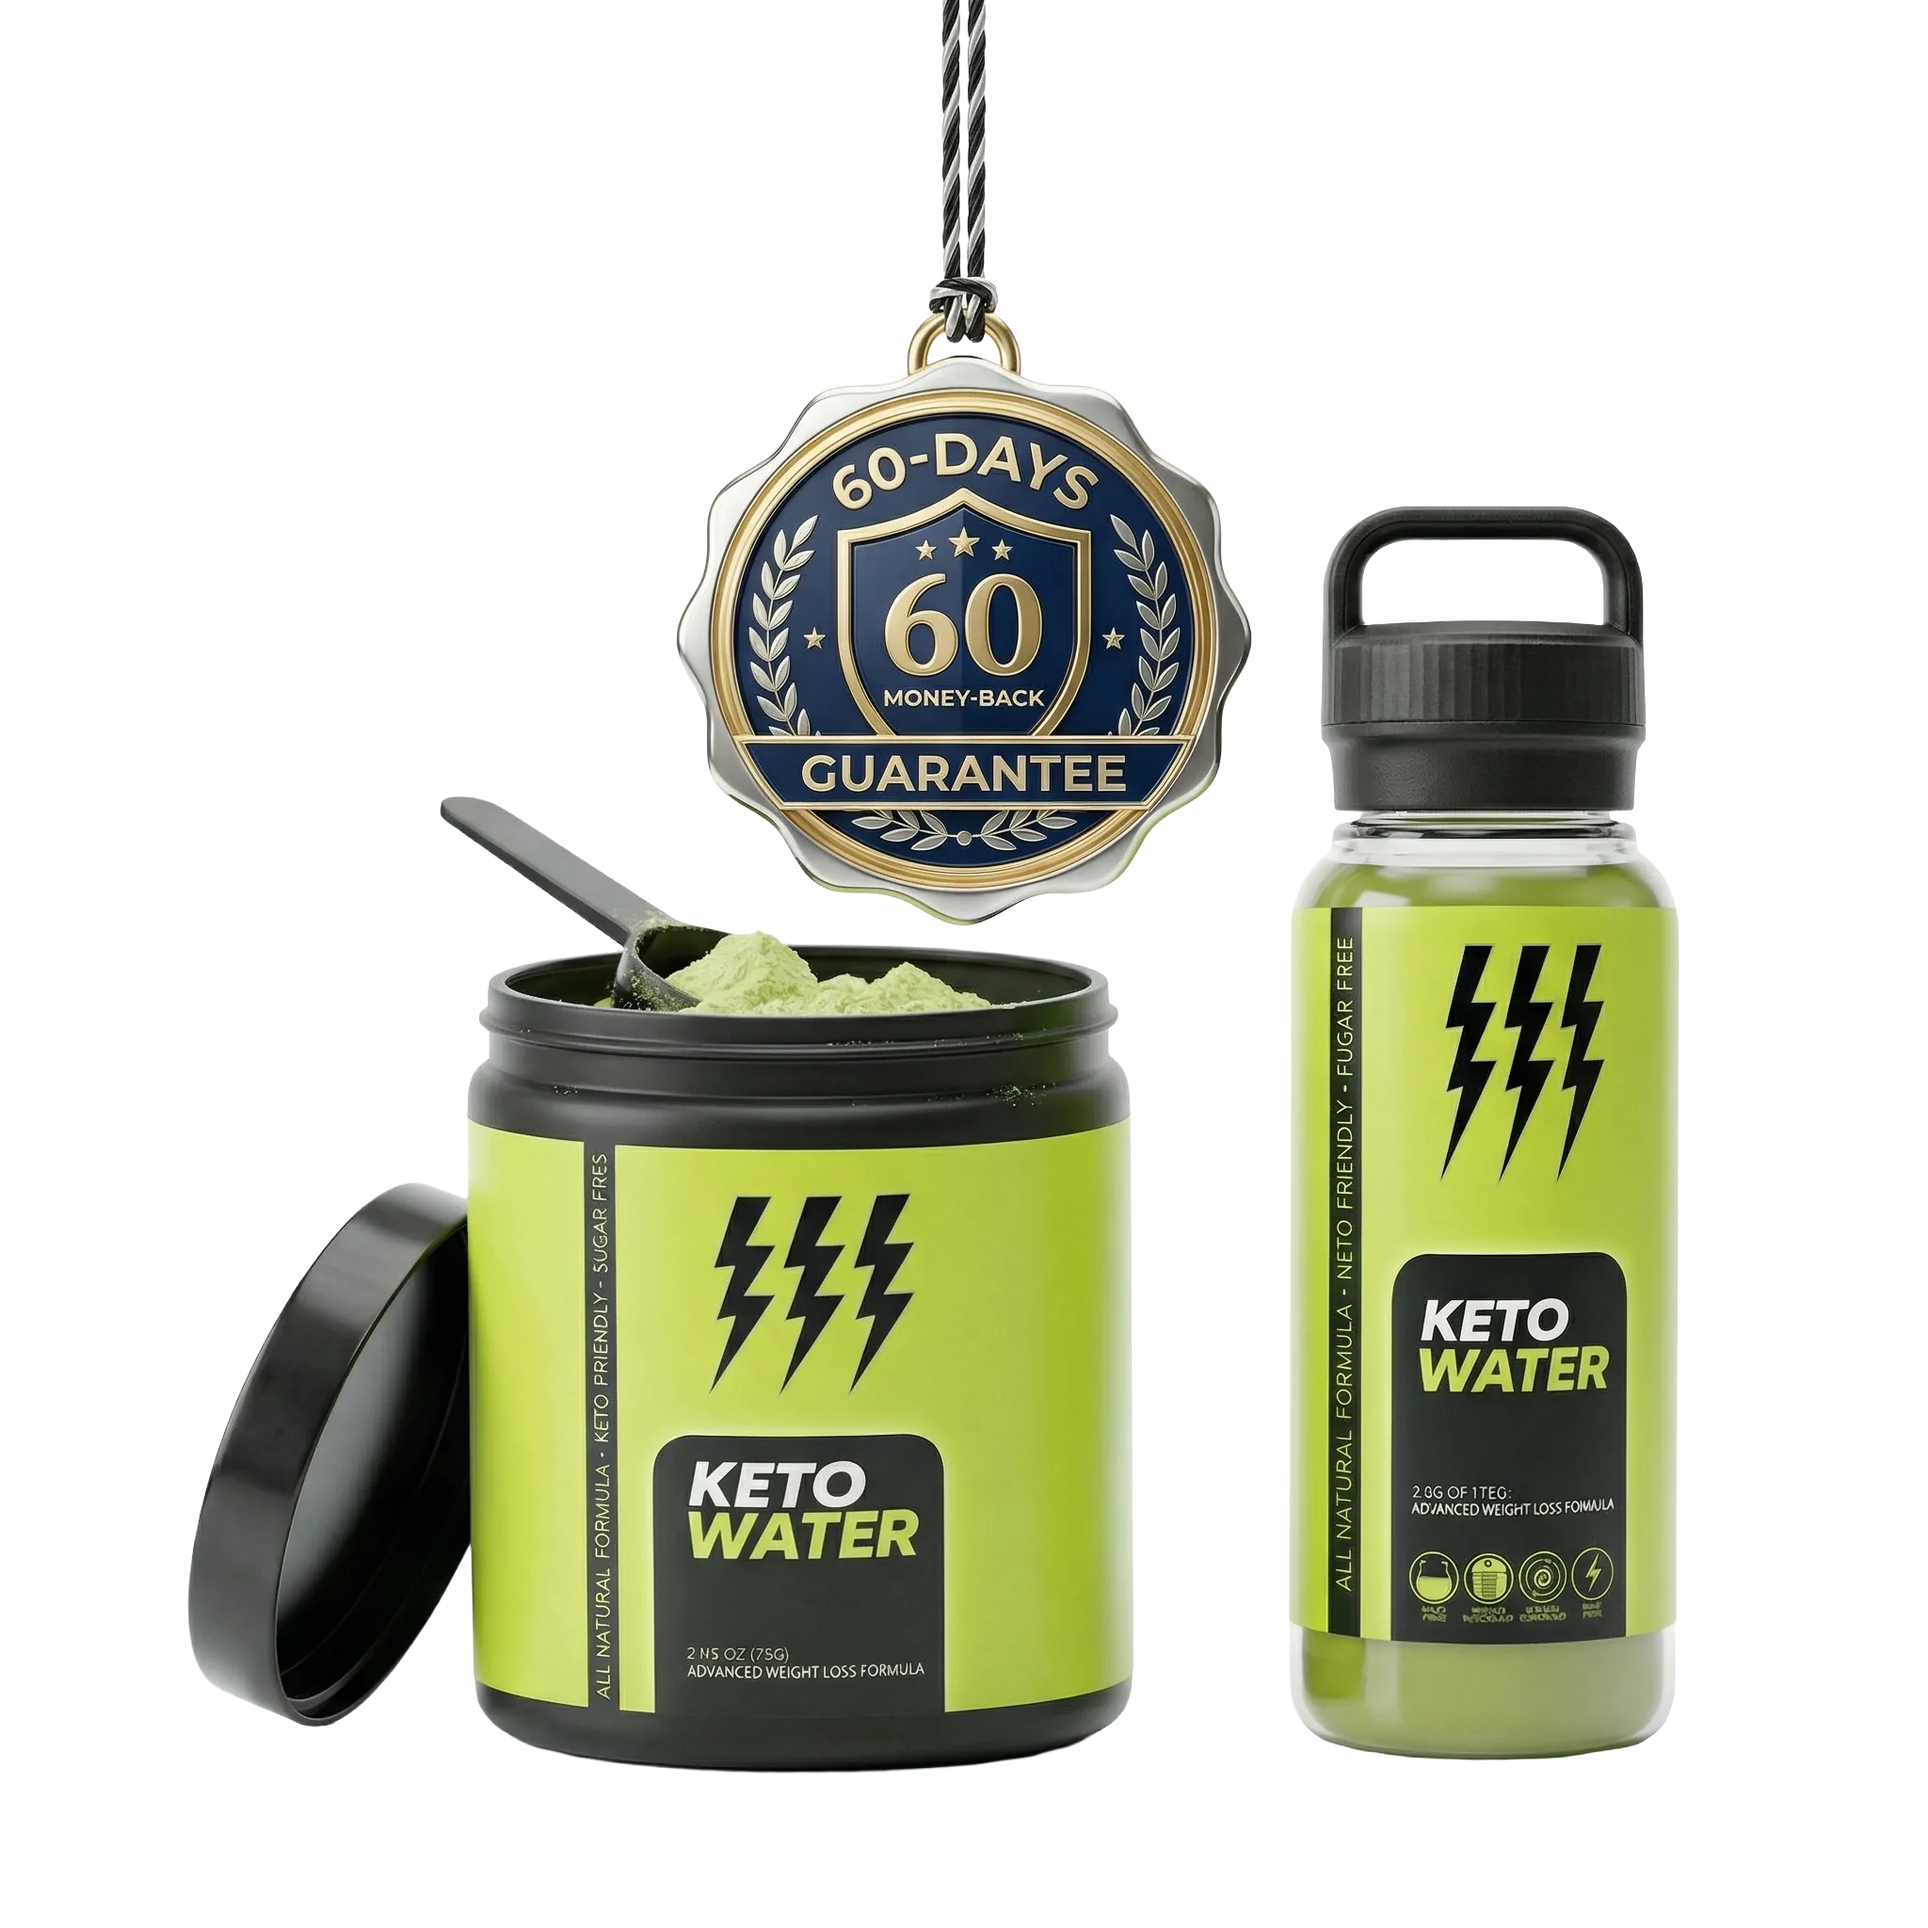
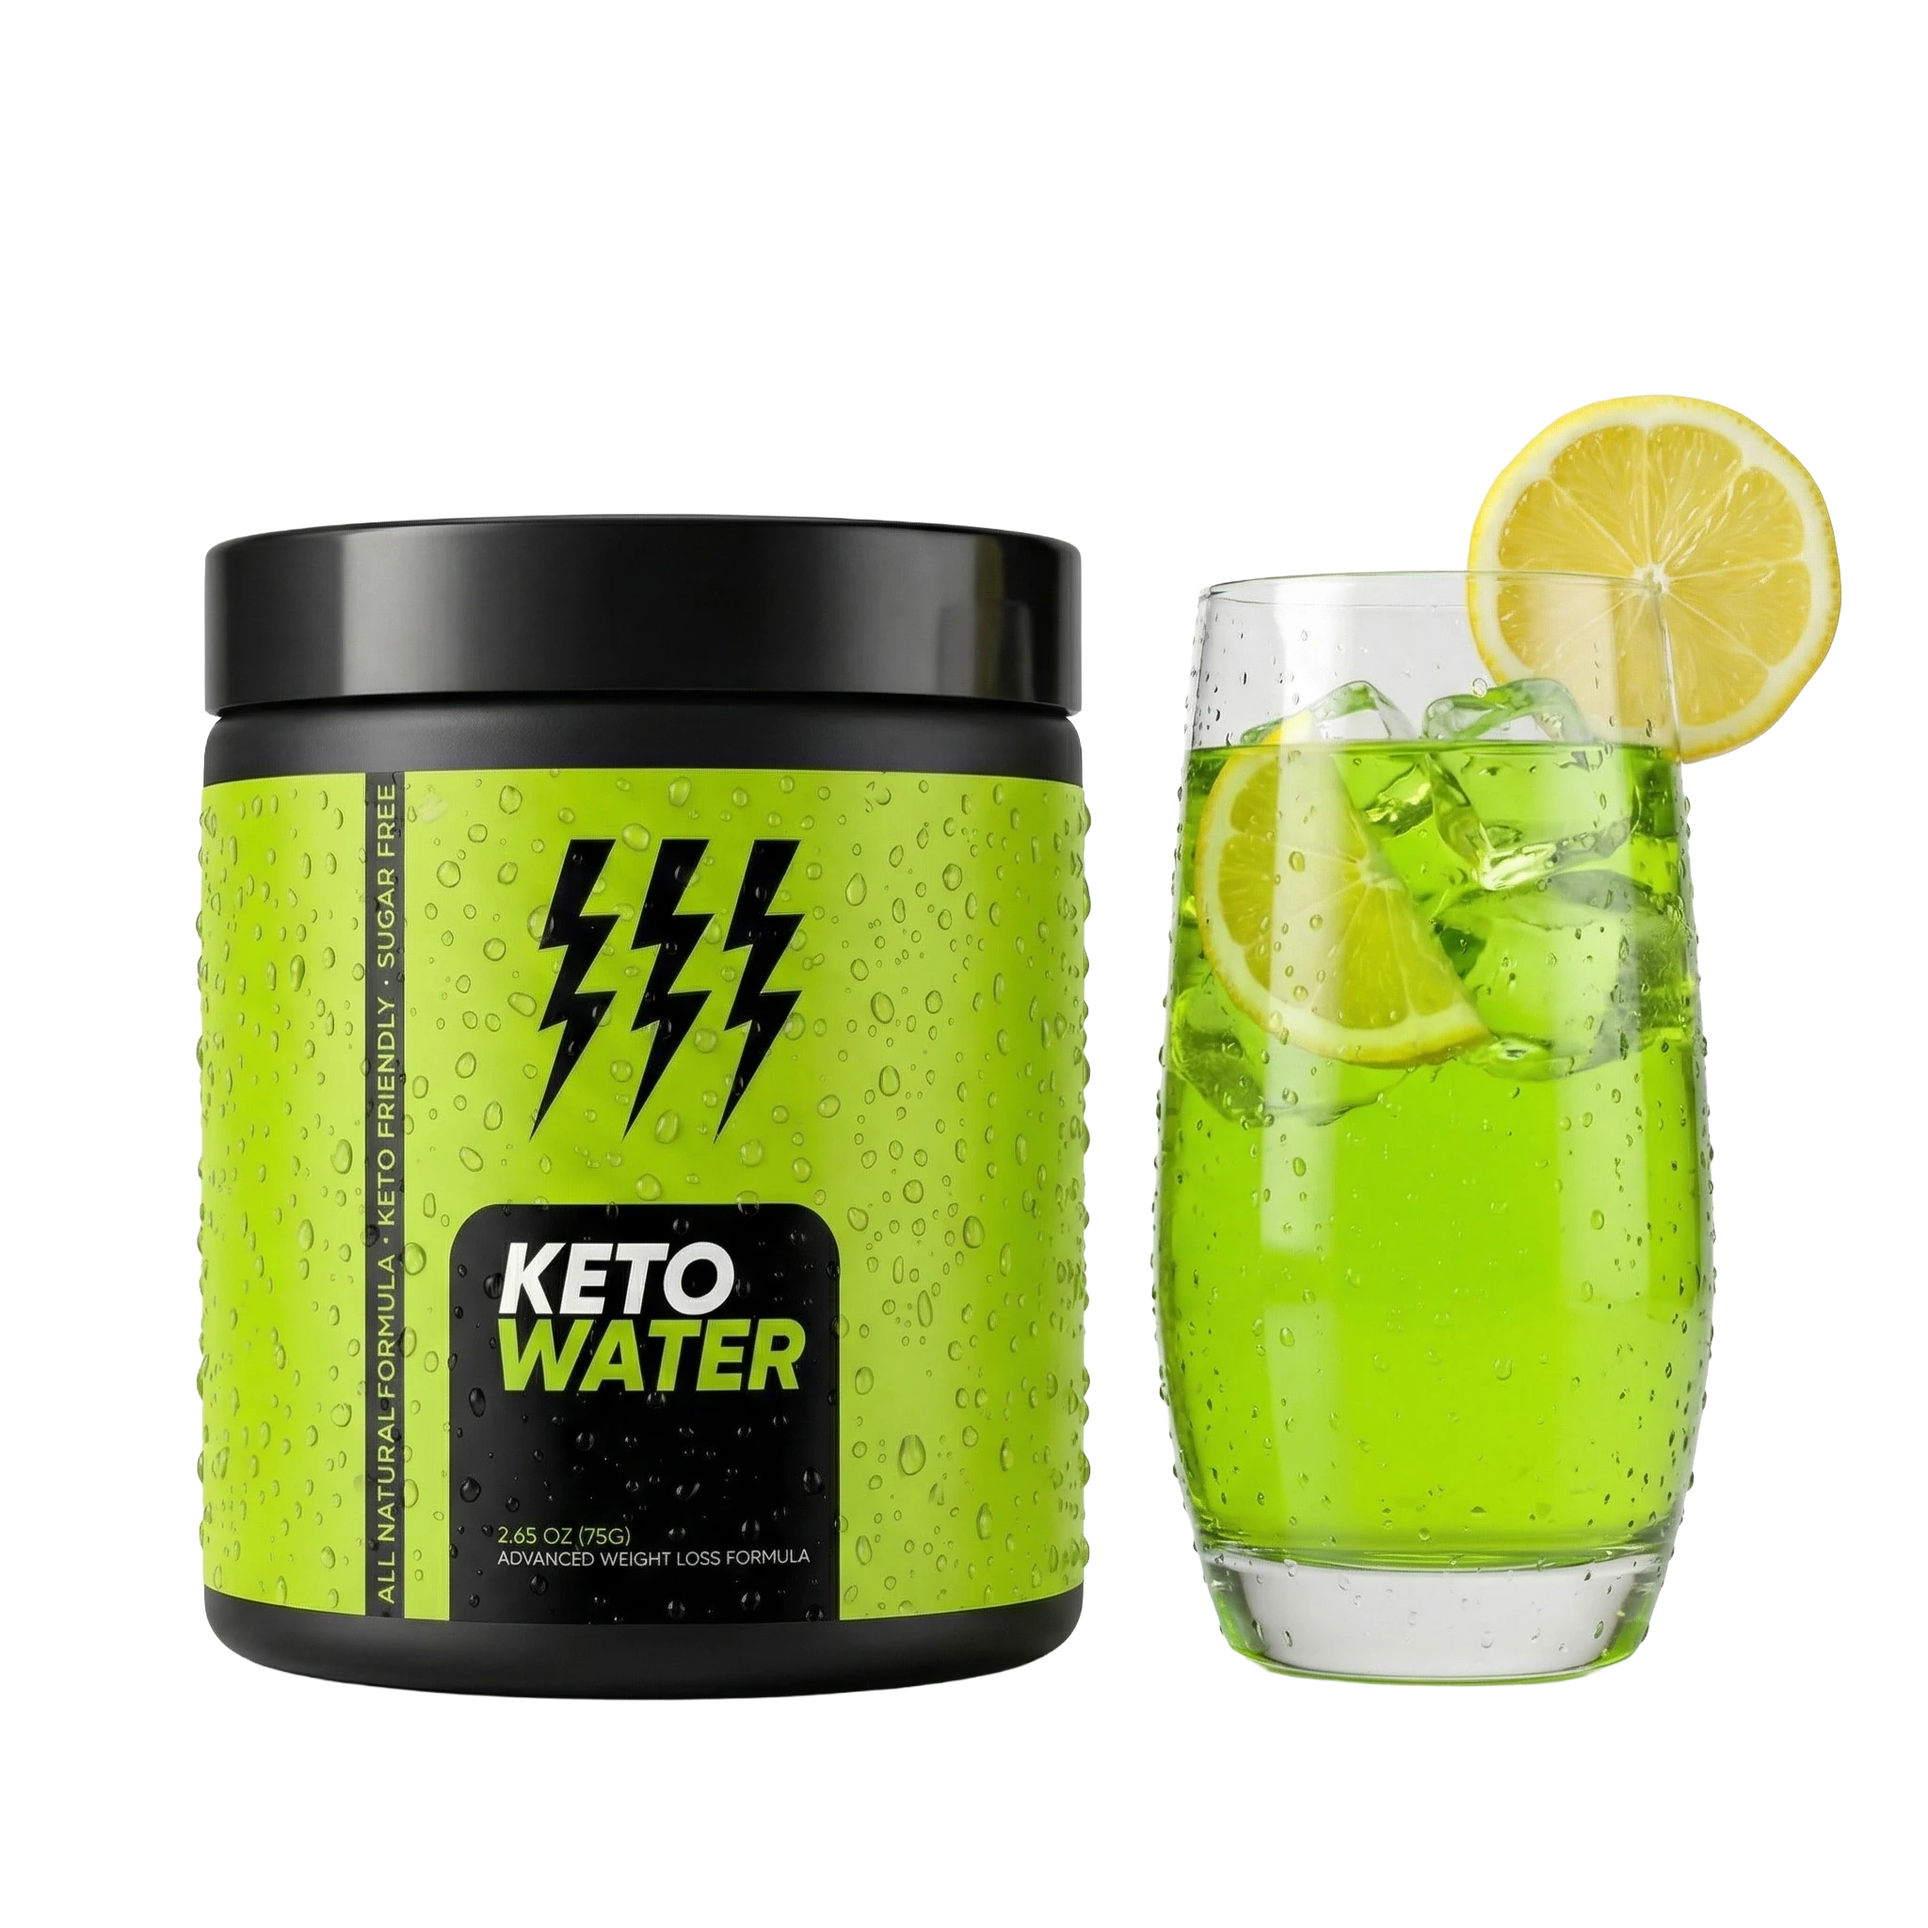
Update guarantee section product images + fix press bar + remove video fullscreen
- Replace product-jar-bottle.webp and hero-product-guarantee.webp with new
  product image (268KB WebP, quality 90, from 3.9MB PNG source)
- Press bar: replace CSS animation with JS rAF marquee — consistent 65px/s
  speed, never pauses on tap, immune to browser throttling
- Remove auto-fullscreen on video play per user request

diff --git a/mobile.html b/mobile.html
@@ -6148,17 +6148,49 @@ function dismissMobileToast(){var t=document.getElementById('mobile-toast');if(t
 (function(){var t=document.getElementById('mobile-toast');if(!t)return;window.__mtDismissedAt=0;var ah=null;window.addEventListener('scroll',function(){if(window.innerWidth>=992)return;if(window.__mtDismissedAt&&(Date.now()-window.__mtDismissedAt)<120000)return;var p=(window.scrollY/(document.documentElement.scrollHeight-window.innerHeight))*100;if(p>=10&&p<50){if(t.style.display==='none'||!t.style.display){t.style.display='block';if(ah)clearTimeout(ah);ah=setTimeout(function(){t.style.display='none';window.__mtDismissedAt=Date.now();},8000);}}});})();
 function dismissDesktopToast(){var t=document.getElementById('desktop-toast');if(t)t.style.display='none';window.__dtDismissedAt=Date.now();}
 (function(){var t=document.getElementById('desktop-toast');if(!t)return;var st=Date.now();window.__dtDismissedAt=0;var ah=null;window.addEventListener('scroll',function(){if(window.innerWidth<992)return;if(window.__dtDismissedAt&&(Date.now()-window.__dtDismissedAt)<120000)return;var el=(Date.now()-st)/1000;var p=(window.scrollY/(document.documentElement.scrollHeight-window.innerHeight))*100;if(el>=45&&p>=15&&p<60){var sb=document.getElementById('sticky-cta-desktop');var sv=sb&&sb.style.display==='block';if((t.style.display==='none'||!t.style.display)&&!sv){t.style.display='block';if(ah)clearTimeout(ah);ah=setTimeout(function(){t.style.display='none';window.__dtDismissedAt=Date.now();},12000);}}});})();
-/* ===== Press bar: restart animation after tab switch to prevent slow/stutter ===== */
+/* ===== Press bar: JS rAF marquee — consistent speed, never pauses on tap ===== */
 (function(){
     var track=document.querySelector('.press-track');
     if(!track)return;
-    document.addEventListener('visibilitychange',function(){
-        if(!document.hidden){
-            track.style.animation='none';
-            void track.offsetWidth;
-            track.style.animation='';
+
+    /* Kill CSS animation entirely — JS takes over */
+    track.style.animation='none';
+    track.style.willChange='transform';
+    track.style.pointerEvents='none'; /* block any touch interaction */
+
+    var pos=0, halfW=0, raf, lastTs=null;
+    var PX_PER_SEC=65; /* ~22s loop for a ~1430px half-track */
+
+    function measure(){ halfW=track.scrollWidth/2; }
+
+    function tick(ts){
+        if(lastTs!==null){
+            var dt=ts-lastTs;
+            if(dt>100)dt=16; /* skip big gaps (tab was hidden) */
+            pos+=PX_PER_SEC*(dt/1000);
+            if(pos>=halfW)pos-=halfW;
+            track.style.transform='translateX(-'+pos.toFixed(2)+'px)';
         }
+        lastTs=ts;
+        raf=requestAnimationFrame(tick);
+    }
+
+    function start(){
+        measure();
+        if(halfW>0&&!raf)raf=requestAnimationFrame(tick);
+    }
+    function stop(){
+        cancelAnimationFrame(raf);
+        raf=null; lastTs=null;
+    }
+
+    document.addEventListener('visibilitychange',function(){
+        if(document.hidden)stop(); else start();
     });
+
+    /* Start after images load so scrollWidth is accurate */
+    if(document.readyState==='complete')start();
+    else window.addEventListener('load',start);
 })();
 /* ===== Video Players ===== */
 (function(){
@@ -6307,8 +6339,6 @@ function dismissDesktopToast(){var t=document.getElementById('desktop-toast');if
         var poster=player.querySelector('.mv-poster');if(poster)poster.style.display='none';
         overlay.style.display='none';
 
-        /* Enter fullscreen — native first, CSS fake fallback for iOS */
-        if(!enterFs(player))fakeFs(player);
         addShield(player,iframe);
     };
 })();

diff --git a/desktop.html b/desktop.html
@@ -6230,7 +6230,6 @@ function dismissDesktopToast(){var t=document.getElementById('desktop-toast');if
         }
         var poster=player.querySelector('.mv-poster');if(poster)poster.style.display='none';
         overlay.style.display='none';
-        if(!enterFs(player))fakeFs(player);
         addShield(player,iframe);
     };
 })();
